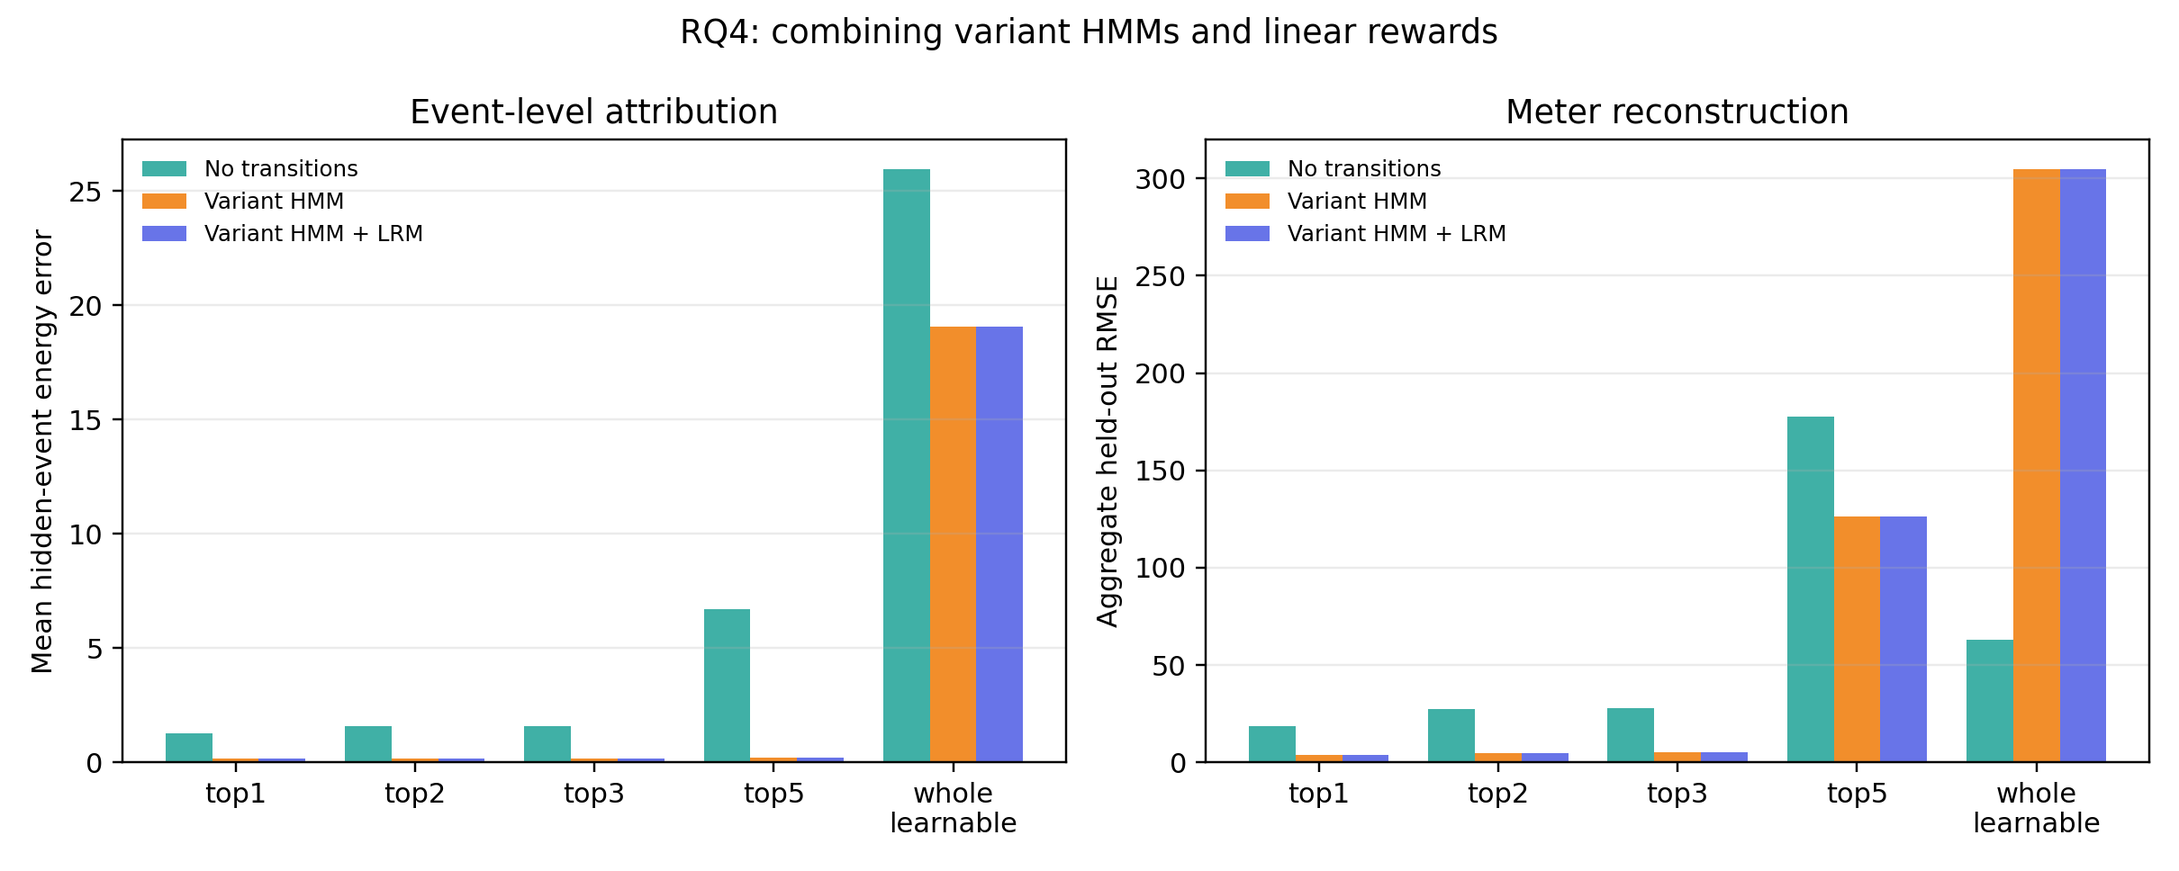
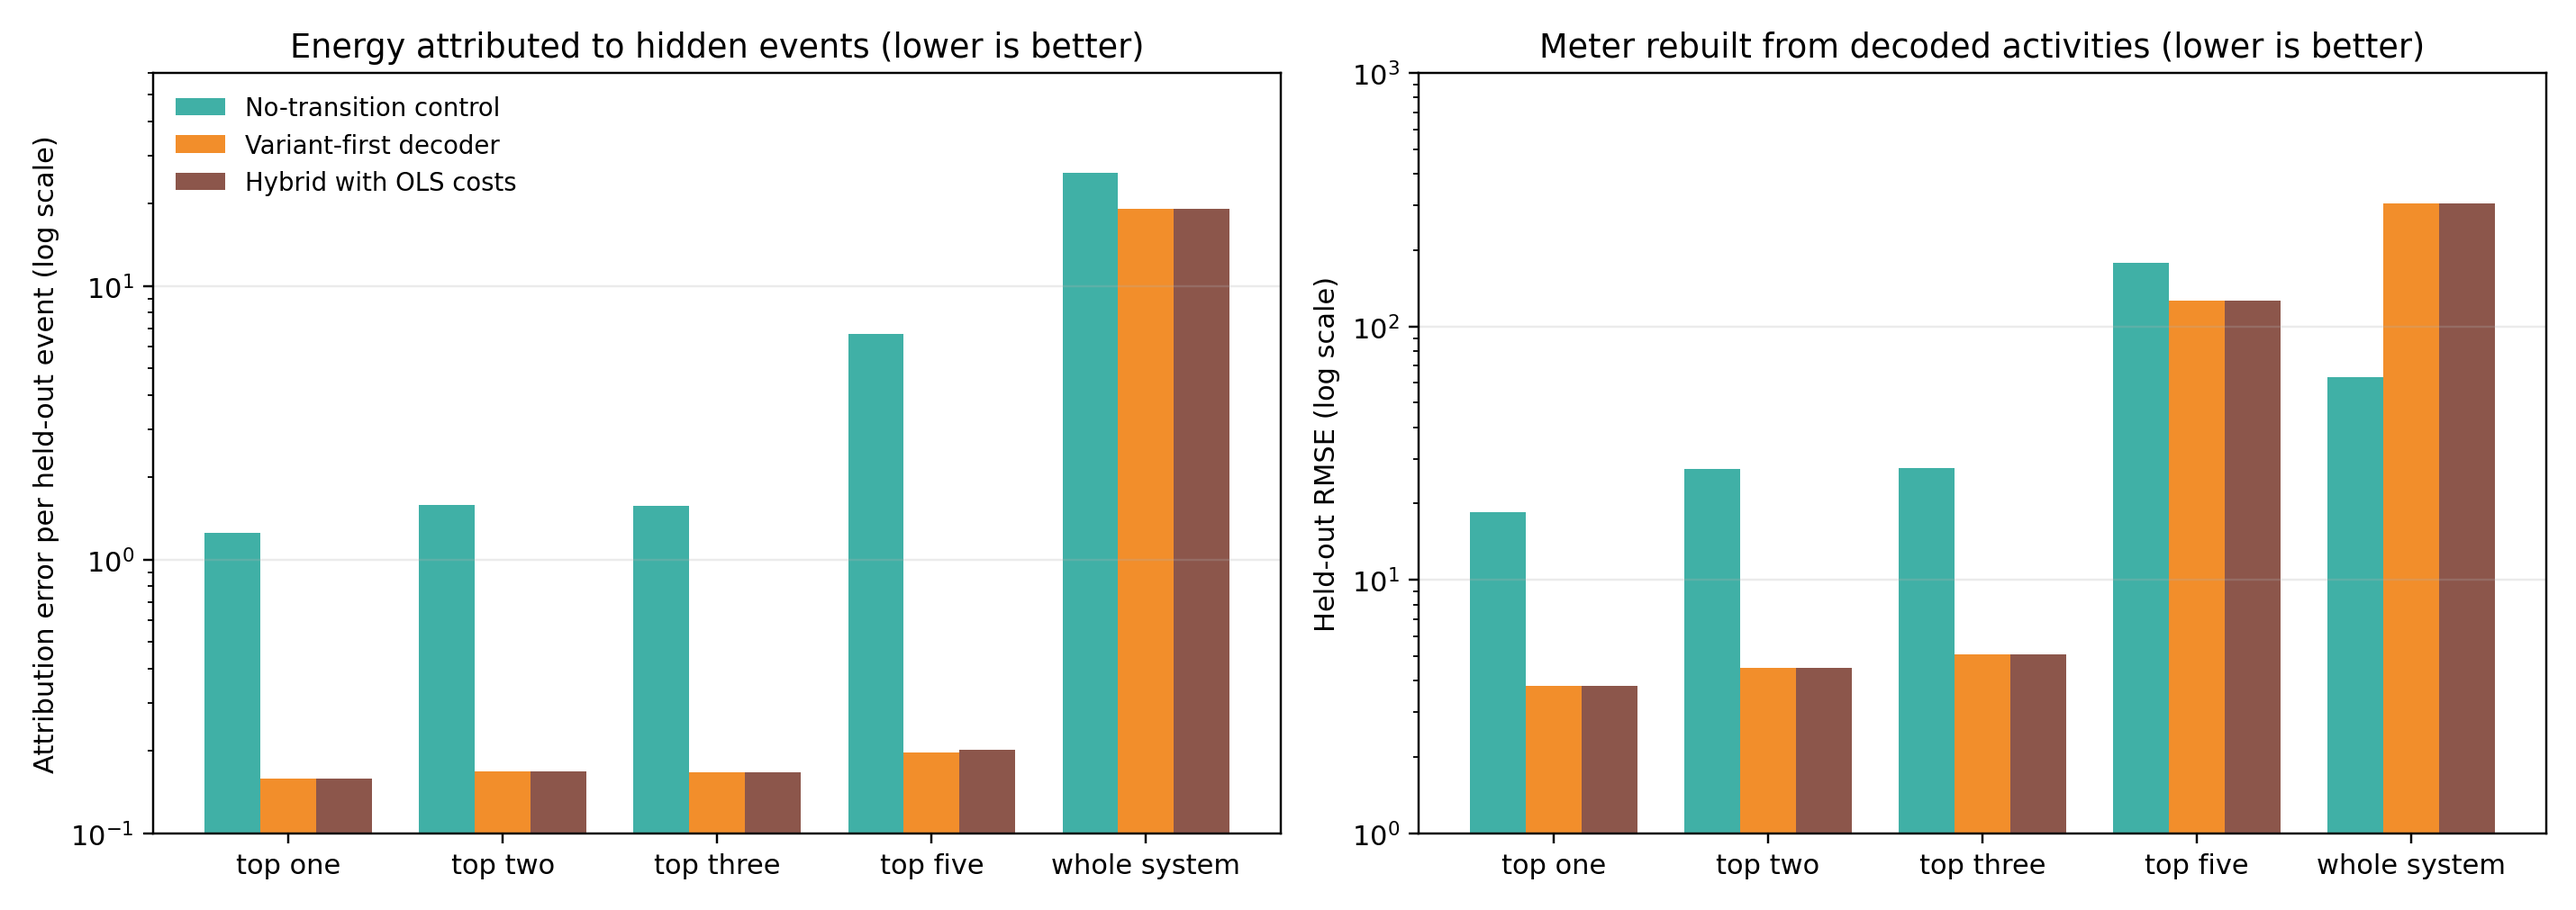
Redraw the composition figure on log scales with the thesis names

Changed region(s): [[0.0, 0.0, 0.9917, 0.9607]]

diff --git a/plot_results.py b/plot_results.py
@@ -138,35 +138,42 @@ def plot_rq2() -> None:
 
 
 def plot_rq4() -> None:
-    """Show the trade-off in the requested HMM and LRM composition."""
+    """The variant-first decoder against the hybrid that charges its paths with OLS costs.
+
+    Both panels use a logarithmic scale, because the narrow scopes sit near the
+    floor of each measure while the whole system is two orders of magnitude
+    higher, and a linear scale would flatten the narrow scopes to nothing.
+    """
     table = pd.read_csv(RESULTS / "event_state_results.csv")
-    labels = table["scope"].replace({"learnable": "whole\nlearnable"}).tolist()
-    figure, axes = plt.subplots(1, 2, figsize=(11, 4.4))
+    labels = table["scope"].map(SCOPE_LABELS).tolist()
+    figure, axes = plt.subplots(1, 2, figsize=(13, 4.6))
     grouped_bars(
         axes[0],
         labels,
         [
-            ("No transitions", table["independent_decoder_event_energy_mae"], "#40B0A6"),
-            ("Variant HMM", table["variant_decoder_event_energy_mae"], "#F28E2B"),
-            ("Variant HMM + LRM", table["variant_hmm_lrm_event_energy_mae"], "#6874E8"),
+            ("No-transition control", table["independent_decoder_event_energy_mae"], "#40B0A6"),
+            ("Variant-first decoder", table["variant_decoder_event_energy_mae"], "#F28E2B"),
+            ("Hybrid with OLS costs", table["variant_hmm_lrm_event_energy_mae"], "#8C564B"),
         ],
-        "Mean hidden-event energy error",
+        "Attribution error per held-out event (log scale)",
+        log=True,
     )
-    axes[0].set_title("Event-level attribution")
-    axes[0].legend(frameon=False, fontsize=8)
+    axes[0].set_ylim(0.1, 60)
+    axes[0].set_title("Energy attributed to hidden events (lower is better)")
+    axes[0].legend(frameon=False, fontsize=9, loc="upper left")
     grouped_bars(
         axes[1],
         labels,
         [
-            ("No transitions", table["independent_decoder_test_rmse"], "#40B0A6"),
-            ("Variant HMM", table["variant_decoder_test_rmse"], "#F28E2B"),
-            ("Variant HMM + LRM", table["variant_hmm_lrm_test_rmse"], "#6874E8"),
+            ("No-transition control", table["independent_decoder_test_rmse"], "#40B0A6"),
+            ("Variant-first decoder", table["variant_decoder_test_rmse"], "#F28E2B"),
+            ("Hybrid with OLS costs", table["variant_hmm_lrm_test_rmse"], "#8C564B"),
         ],
-        "Aggregate held-out RMSE",
+        "Held-out RMSE (log scale)",
+        log=True,
     )
-    axes[1].set_title("Meter reconstruction")
-    axes[1].legend(frameon=False, fontsize=8)
-    figure.suptitle("RQ4: combining variant HMMs and linear rewards")
+    axes[1].set_ylim(1, 1000)
+    axes[1].set_title("Meter rebuilt from decoded activities (lower is better)")
     figure.tight_layout()
     save(figure, "rq4_composition.png")
     plt.close(figure)
